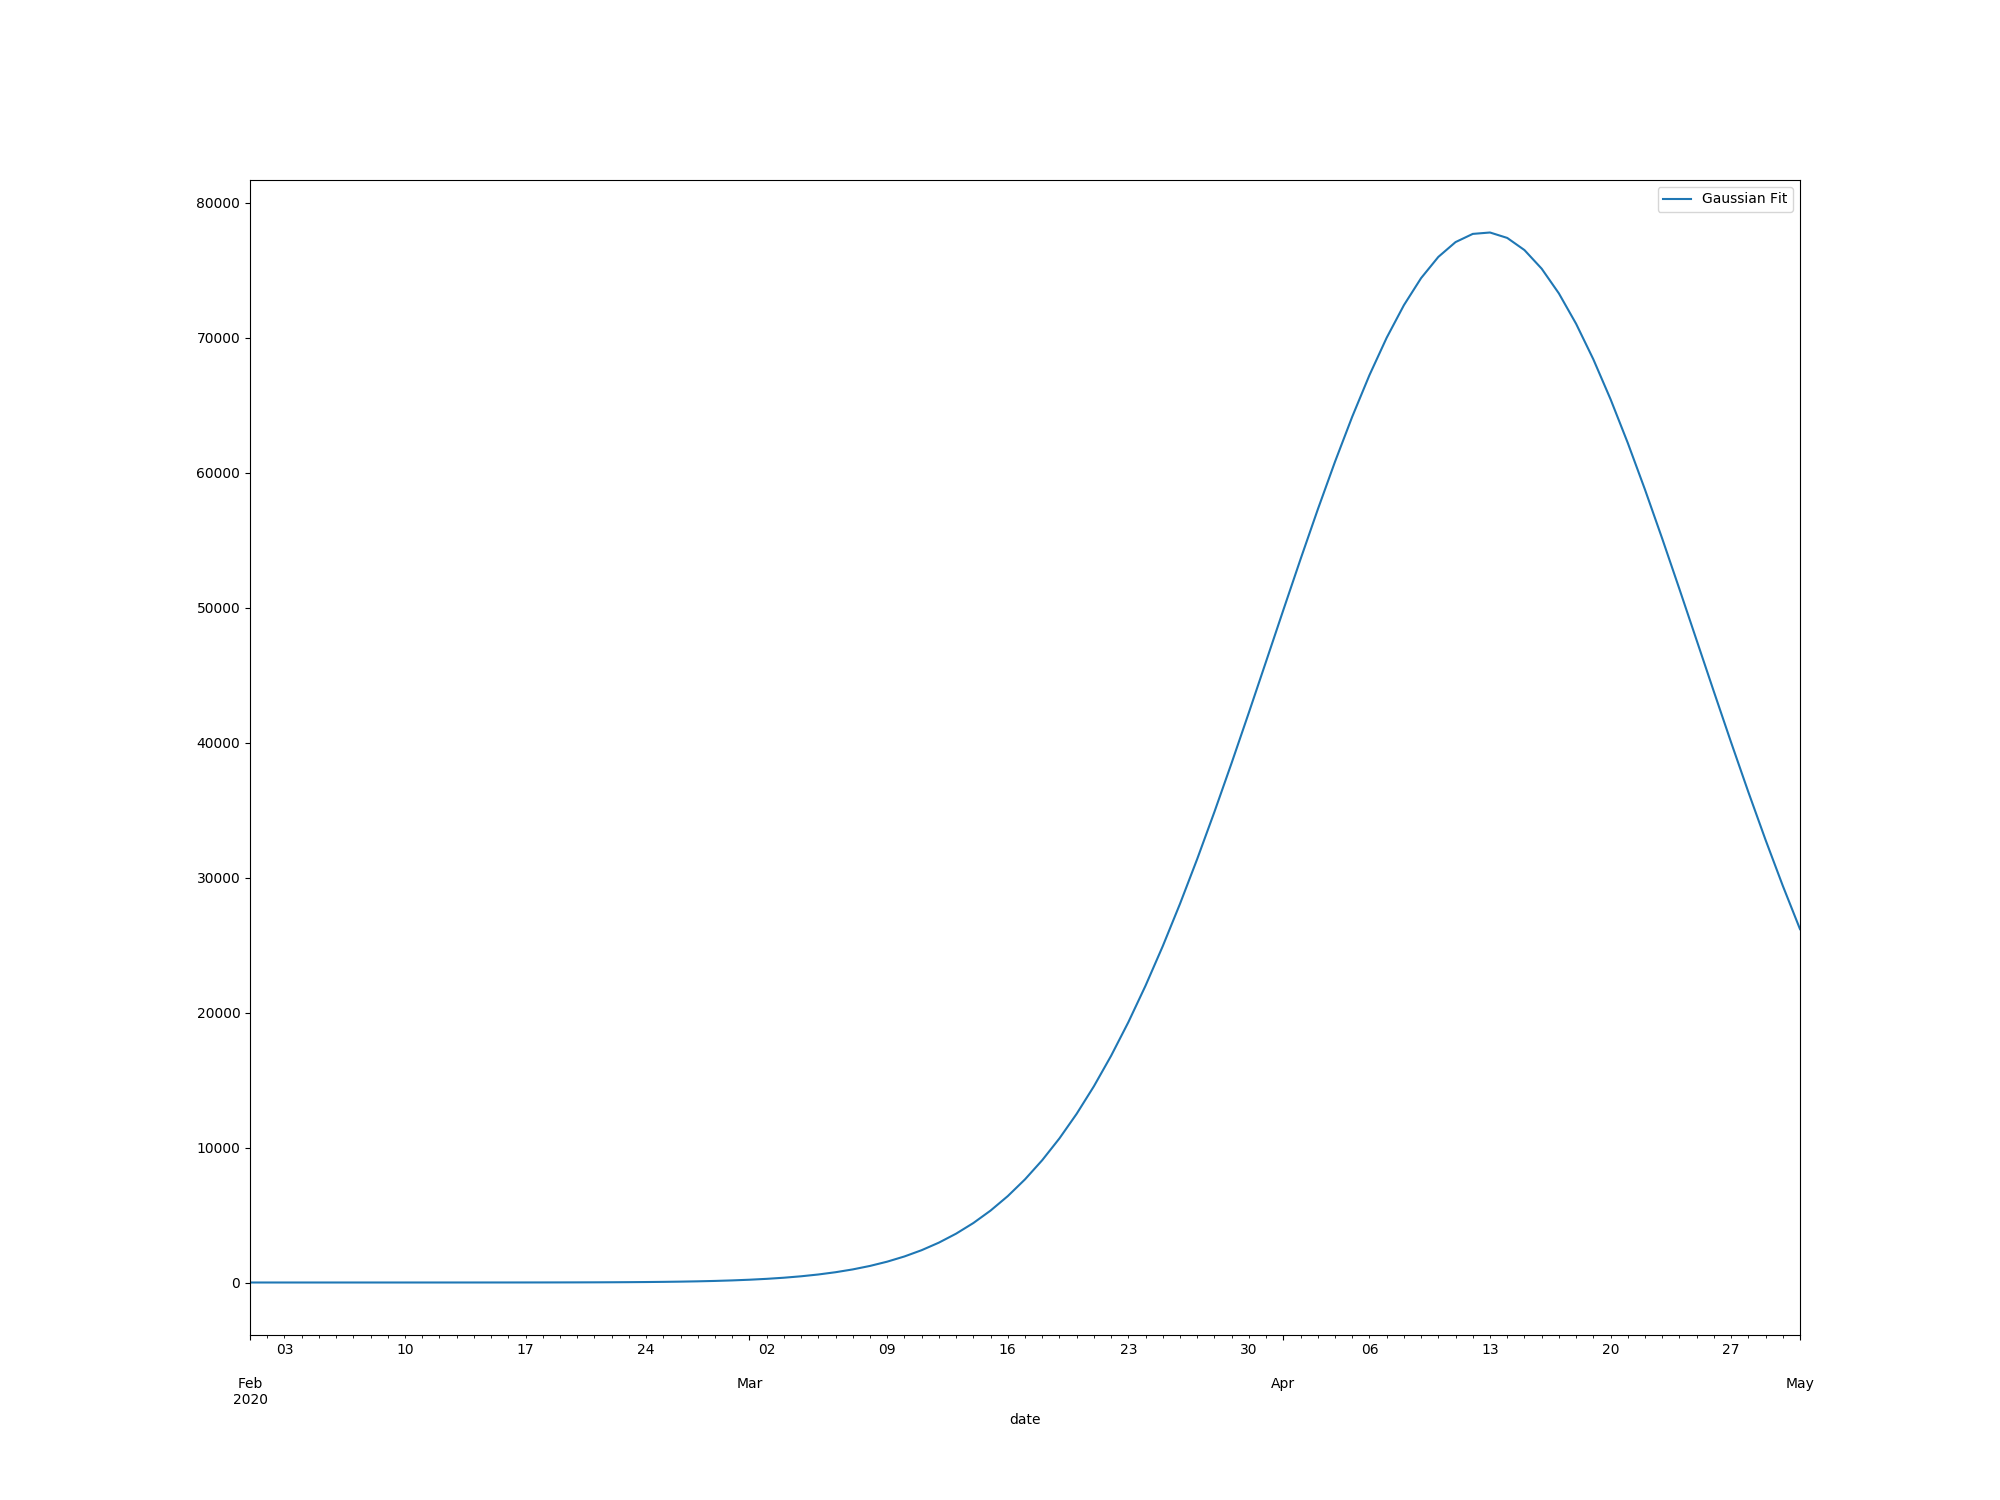
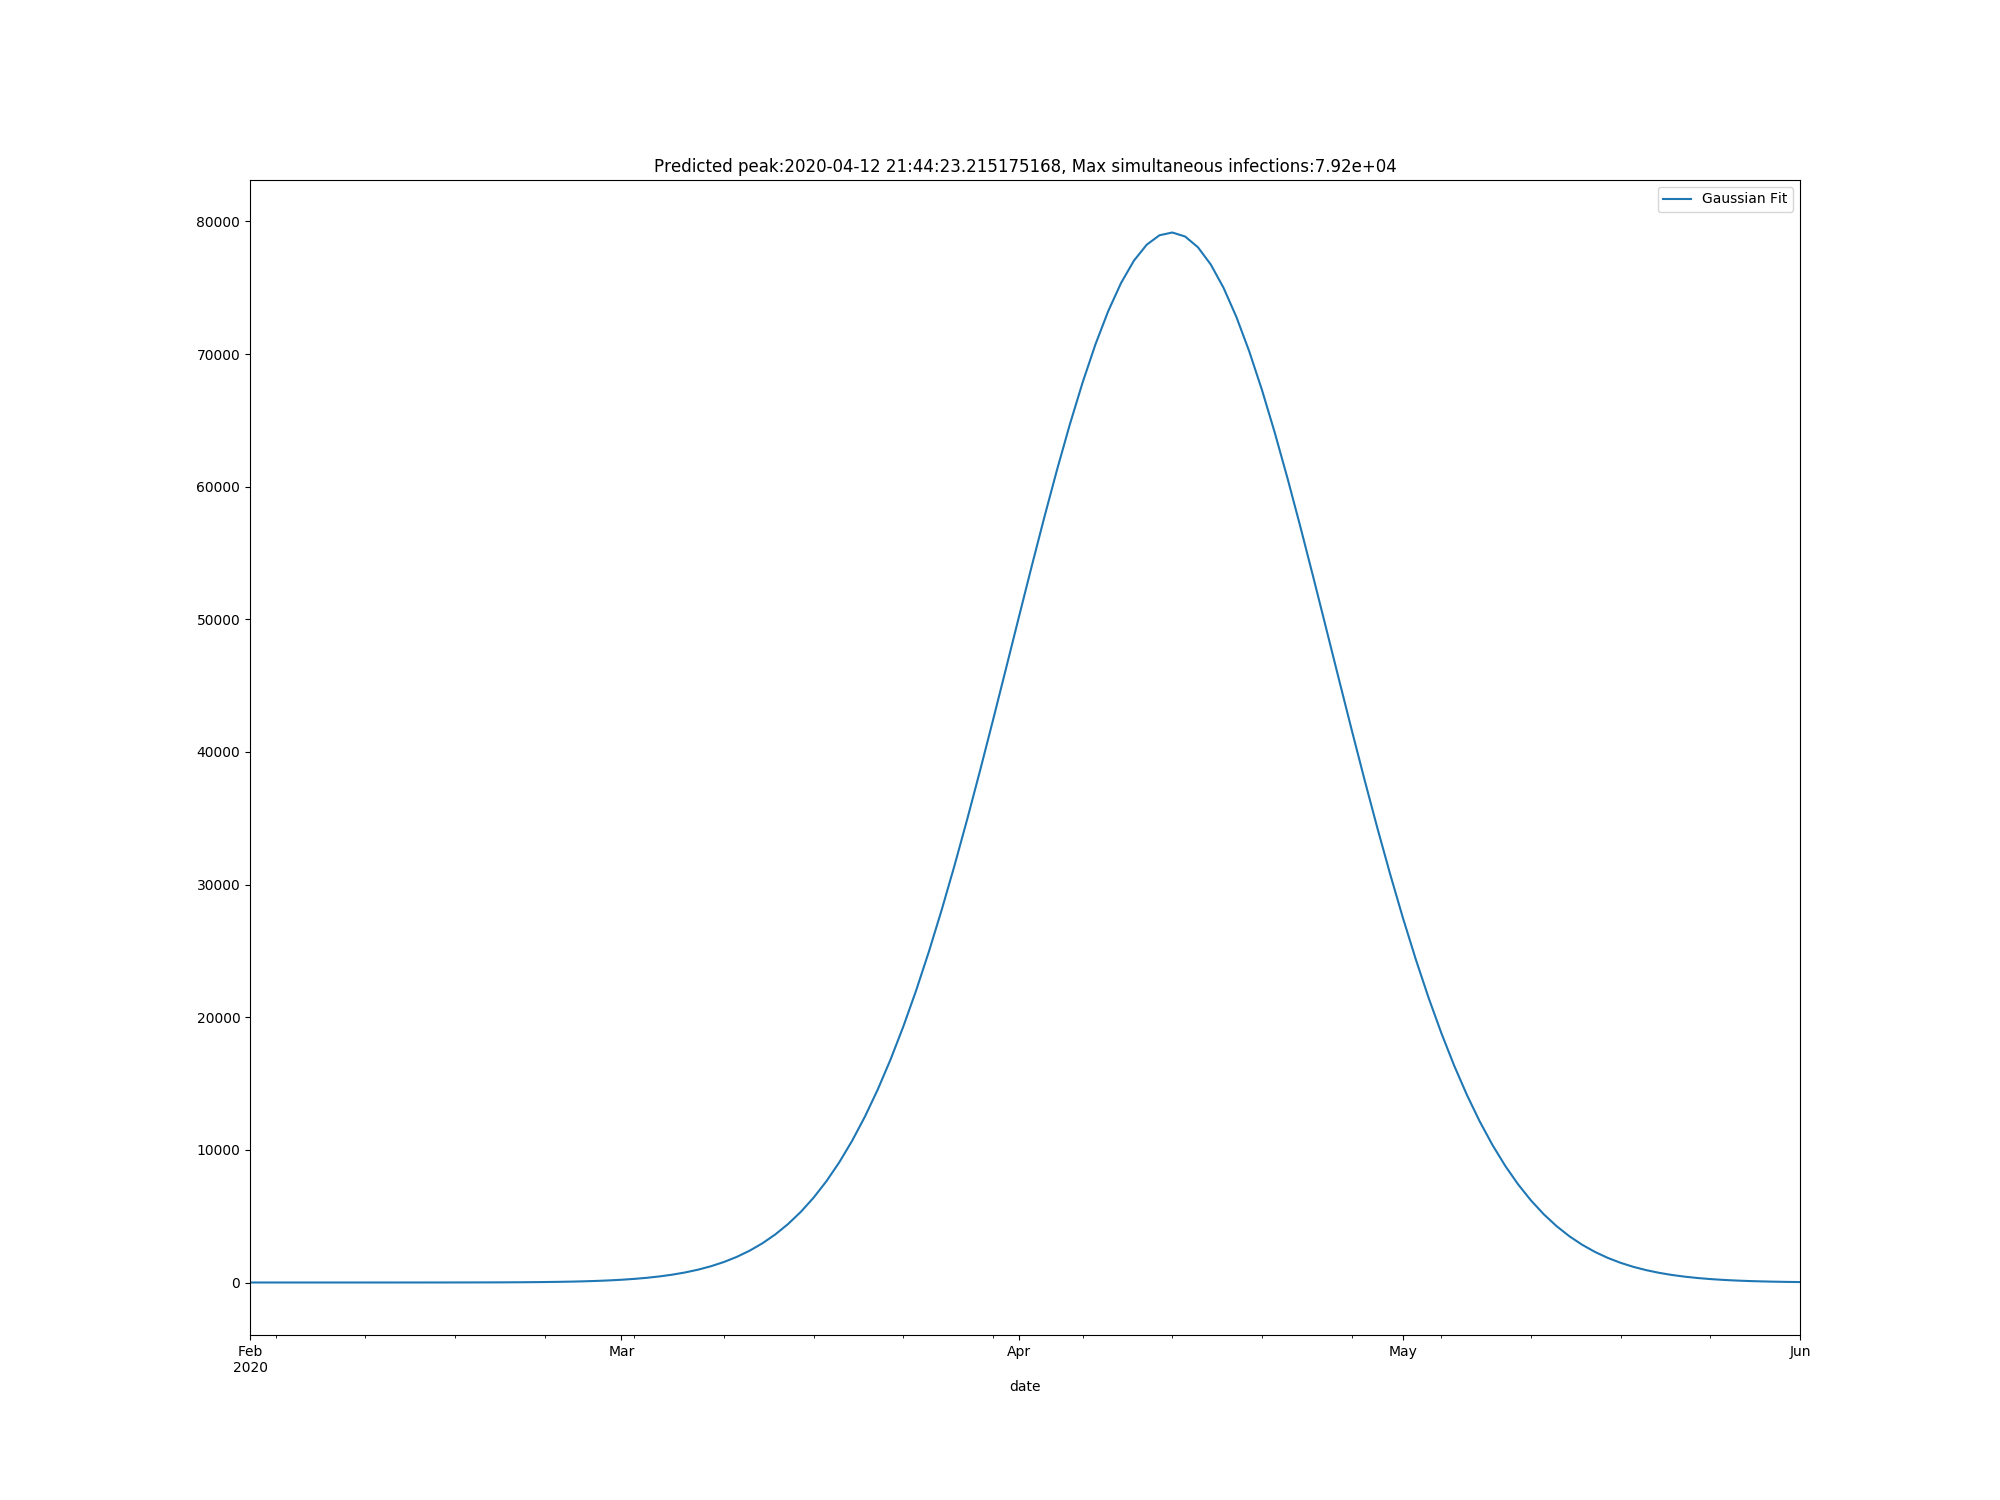
20200324

diff --git a/france_regional.py b/france_regional.py
@@ -47,7 +47,8 @@ def fetch_data_from_sante_publique_website():
 
     tr_elements = doc.xpath('//tr')
     date_element = doc.xpath('//*[@id="block-236243"]/div[2]/div/h4')
-    return tr_elements, date_element
+    date_element2 = doc.xpath('/html/body/div[1]/div[1]/div/div/div/div[2]/div[1]/div/div[4]/div[1]/h4/span[1]')
+    return tr_elements, date_element2
 
 
 def get_data_from_tr_elements(tr_elements):
@@ -107,7 +108,7 @@ def get_date_from_sp_website_element(date_element):
     data_date = date_element[0].text_content()
     data_date = data_date.replace('Nombre de cas rapportés par région au ', '')
     data_date = data_date.split('h ', 1)[0]
-    data_date_object = datetime.strptime(data_date, '%d/%m/%Y à %H')
+    data_date_object = datetime.strptime(data_date, '%d/%m/%Y à %Hh')  # might need to remove h
     return data_date_object
 
 
@@ -171,19 +172,20 @@ cumulative_data.plot(
     kind='bar',
     ax=ax,
     rot=30,
-    title=title,
+    # title=title,
     figsize=(20, 15),
     grid=True
 ).get_figure().savefig('summary.png')
 
-test = pd.DataFrame(pd.date_range(start='2/1/2020', end='05/01/2020'), columns=['date'])
+test = pd.DataFrame(pd.date_range(start='2/1/2020', end='06/01/2020'), columns=['date'])
 test['fit'] = predictions[2] * np.exp(-((test.date.astype('int') - predictions[0])/predictions[1])**2)
 fig2, ax2 = plt.subplots()
 test.set_index('date').fit.plot(x='date',
                                 ax=ax2,
                                 label='Gaussian Fit',
                                 legend=True,
-                                figsize=(20, 15)
+                                figsize=(20, 15),
+                                title=title
                                 ).get_figure().savefig('fit.png')
 fig3, ax3 = plt.subplots()
 cumulative_data.set_index('date')['TotalMétropole'].diff().plot(ax=ax3,
